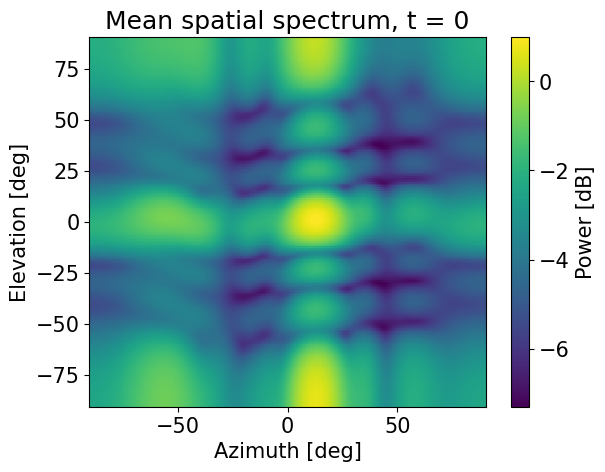
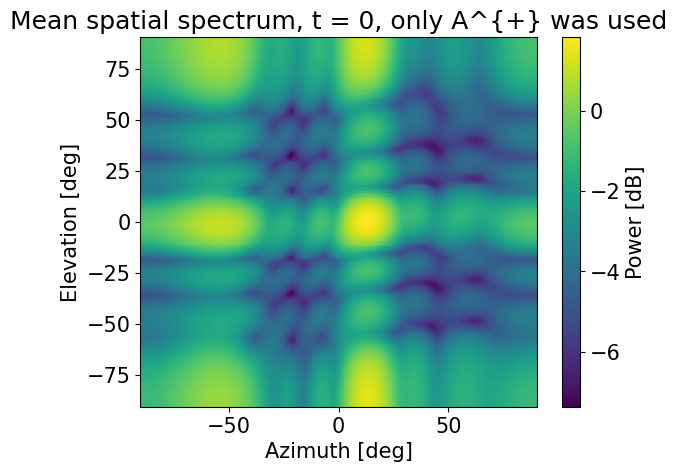
[MIMO] Updated report

diff --git a/mimo/first_hw/report.md b/mimo/first_hw/report.md
@@ -35,15 +35,165 @@ $y = Hps + n$
 
 Построим пространственный спектр H:
 
+Воспользуемся методом векторов направлений:
+
+$a_{\theta}(\theta) = (1, e^{-i 2 \pi 0.9 sin\theta }, ... e^{-i 2 (4 - 1) \pi 0.9 sin\theta })$
+
+$a_{\phi}(\phi) = (1, e^{-i 2 \pi 0.9 sin\phi }, ... e^{-i 2 (4 - 1) \pi 0.9 sin\phi })$
+
+Сформируем двумерный вектор направления:
+
+$A(\theta, \phi) = a_{\phi}(\phi) \otimes a_{\theta}(\theta)$
+
+Далее, фиксируем антенну пользователя, поднесущую, момент времени:
+
+$h = H(k, t, m)$
+
+Разбиваем данный вектор на два, отвечающих различным поляризациям
+
+$h = \{h_{+}, h_{-}\}$
+
+Тогда, мощность вычисляется как:
+
+$\rho(\theta, \phi) = |h_{+}^{H}A(\theta, \phi) + h_{-}^{H}A(\theta, \phi)|^2$
+
+Сравним получившиеся картины для разных принимающих антенн в нулевой момент времени и на нулевой поднесущей:
+
+![First ue](./pictures/first_ue.png)
+
+![Second ue](./pictures/second_ue.png)
+
+![Third ue](./pictures/third_ue.png)
+
+![Fourth ue](./pictures/fourth_ue.png)
+
+Можно увидеть, что они очень схожи между собой, поэтому можно усреднять картину по принимающим антеннам
+
+Теперь, закрепим принимающую антенну, и посмотрим на картины на разных поднесущих:
+
+![Sub #0](./pictures/spatial_sub_0.png)
+
+![Sub #50](./pictures/spatial_sub_50.png)
+
+![Sub #100](./pictures/spatial_sub_100.png)
+
+![Sub #200](./pictures/spatial_sub_200.png)
+
+Картины также слабо отличаются, поэтому далее будем усреднять по поднесущим
+
+Рассмотрим картины в разные моменты времени
+
+![First moment of time](./pictures/spatial_t_0.png)
+
+![Middle point of time](./pictures/spatial_t_50.png)
+
+![Last moment of time](./pictures/spatial_t_99.png)
+
+Канал меняется со временем, поэтому по времени лучше не усреднять. Далее, все картины будут для нулевого момента времени
+
+Теперь, модифицируем алгоритм вычисления пространственного спектра мощности, добавив учет поляризации в вектор направлений:
+
+$a_{\theta}^{+}(\theta) = (1, e^{-i 2 \pi 0.9 sin\theta }, ... e^{-i 2 (4 - 1) \pi 0.9 sin\theta })$
+
+$a_{\phi}^{+}(\phi) = (1, e^{-i 2 \pi 0.9 sin\phi }, ... e^{-i 2 (4 - 1) \pi 0.9 sin\phi })$
+
+$a_{\theta}^{-}(\theta) = e^{-i \frac{\pi}{2}}a_{\theta}^{+}(\theta)$
+
+$a_{\phi}^{-}(\phi) = e^{-i \frac{\pi}{2}} a_{\phi}^{+}(\phi) $
+
+$A(\theta, \phi)^{+} = a_{\phi}^{+}(\phi) \otimes a_{\theta}^{+}(\theta)$
+
+$A(\theta, \phi)^{-} = a_{\phi}^{-}(\phi) \otimes a_{\theta}^{-}(\theta)$
+
+$\rho(\theta, \phi) = |h_{+}^{H}A^{+}(\theta, \phi) + h_{-}^{H}A^{-}(\theta, \phi)|^2$
+
+Сравним получившиеся картины без и с данной модификацией
+
 ![Spatial spectre with A not changed](./pictures/spatial_spec_no_add.png)
 
 ![Spatial spectre with A changed](./pictures/spatial_spec_add.png)
 
-Рассмотрим влияние N-лучевой аппроксимацию канала при формировании SVD прекодера
+Картина не претерпела существенных изменений, по мнению автора работы, можно использовать вектора направлений без учета множителя поляризации
+
+Рассмотрим N-лучевую аппроксимацию канала
+
+Для ее получения:
+Рассмотрим вектор $h = H(m, k, t)$, полученный закрплением момента времени, поднесущей и пользовательской антенны,
+
+Рассмотрим Фурье-образ данного вектора:
+$\hat{h} = fft(h)$
+
+Аппроксимация заключается в том, что оставляются лишь $N$ максимальных по модулю компонент и делается обратное преобразование Фурье
+
+$h_{recovered} = ifft(\hat{h_{top N}}) $
+
+Проделаем для каждого момента времени, поднесущей и антенны пользователя и получим полную N-лучевую аппроксимацию канала
+
+Посмотрим на пространственные мощности при 64-, 8- и 1-лучевых аппроксимациях:
+
+64 луча:
+
+![64  beams](./pictures/spatial_64.png)
+
+8 лучей:
+
+![8  beams](./pictures/spatial_8.png)
+
+1 луч:
+
+![1  beams](./pictures/spatial_1.png)
+
+Видно, что графики содержат меньше информации при уменьшении количества лучей
+
+
+Построим на основе такой аппроксимации прекодер, и посмотрим на итоговые характеристики BER(SNR)
 
 ![Beams approximation results](./pictures/with_beams.png)
 
+Из графика видно, что данный канал плохо аппроксимируется 1 лучом, но очень хорошо аппроксимируется 8 лучами.
+
+Задание 3)
+
+Теперь, рассмортрим ситуацию, когда мы не знаем канал. Используем посылаемые в uplink пилотные сигналы для оценки канала uplink, и воспользуемся $H_{downlinh} = H^{H}_{uplink}$ для установления оценки канала downlink
+
+Если $s$ - отправленный пилот, а $y$ - принятый сигнал, то канал uplink на данной поднесущей можно оценить как
+
+$h^{uplink}_{est} = ys^{*}$
+
+И, канал downlink на данной поднесущей
+
+$h^{downlink}_{est} = (h^{uplink}_{est}){H}$
+
+В нашем случае, пользователь в uplink посылает пилотные сигналы на тех же поднесущих, на которых мы потом будем отправлять в downlink, поэтому интерполяции проводить не нужно
+
+Используем полученную оценку для формирования SVD прекодера и рассмотрим BER(SNR) характеристики, полученные при наличие/отсутствие шума, наличие/отсутствие интерференции.
 
 ![BER(SNR) with/without noise/interference](./pictures/interf_noise.png)
 
-![BER(SNR) with/without window](./pictures/ber_snr_window_interf.png)
+На высоких SNR оценка, полученная при наличие интерференции сильно отдаляется от идеальной, в отличие от оценки, полученной при наличие лишь шума. Примерно в середине рассматриваемых значений SNR оценка, полученная при наличие шума начинает проигрывать оценке, полученной при наличие интерференции, так как в импульсной характеристике шум начинает сравниваться по модулю со всплеском, полученном из-за интерференции
+
+Рассмотрим импульсную характеристику пилотного сигнала с интерференцией:
+
+![Impulse responce with interference](./pictures/Interf.png)
+
+Видно, что часть импульсной характеристики, которую мы и хотим оценить расположена достаточно локально (~20 отсчетов) и не пересекается с частью импульсной характеристики, характеризующую интерфереционный канал
+
+Попробуем применять окно различных размеров на импульсную характеристику в разных сценариях (наличие/отсутствие шума, наличие/отсутствие интерференции)
+
+![BER(SNR) with/without window of size 5 in different situations](./pictures/window_size_5.png)
+
+![BER(SNR) with/without window of size 10 in different situations](./pictures/window_size_10.png)
+
+![BER(SNR) with/without window of size 15 in different situations](./pictures/window_size_15.png)
+
+![BER(SNR) with/without window of size 20 in different situations](./pictures/window_size_20.png)
+
+![BER(SNR) with/without window of size 25 in different situations](./pictures/window_size_25.png)
+
+На малых значениях окна мы отбрасываем часть информации из импульсной характеристики, связанной именно с нашим каналом. Поэтому здесь, даже на хороших SNR мы не достигаем идеальной оценки
+
+При увеличении значения окна до 20, мы полностью соохраняем нужную информацию. Поэтому, при отсутсвии шума, оценка полностью совпадает с идельной.
+
+Оценки, полученные путем применения окна при наличии шума и интерференции и только шума совпадают между собой, так как ошибки из-за интерференция полностью подавляются, и остается лишь влияние шума внутри отфильтрованной области
+
+В предположении, что мы знаем хотя бы порядок максимальной задержки, можно предложить следующее в качестве стратегии подбора оптимальной длины окна: идем по модулю импульсной характеристики и смотрим на набор точек длиной в порядок максимальной задержки. Если все точки отличаются от среднего по данному промежутку не более чем на некий малый процент (5%, например), то мы считаем, что это уже все шум, и окно должно охватывать импульсную характеристику до данного отрезка 
